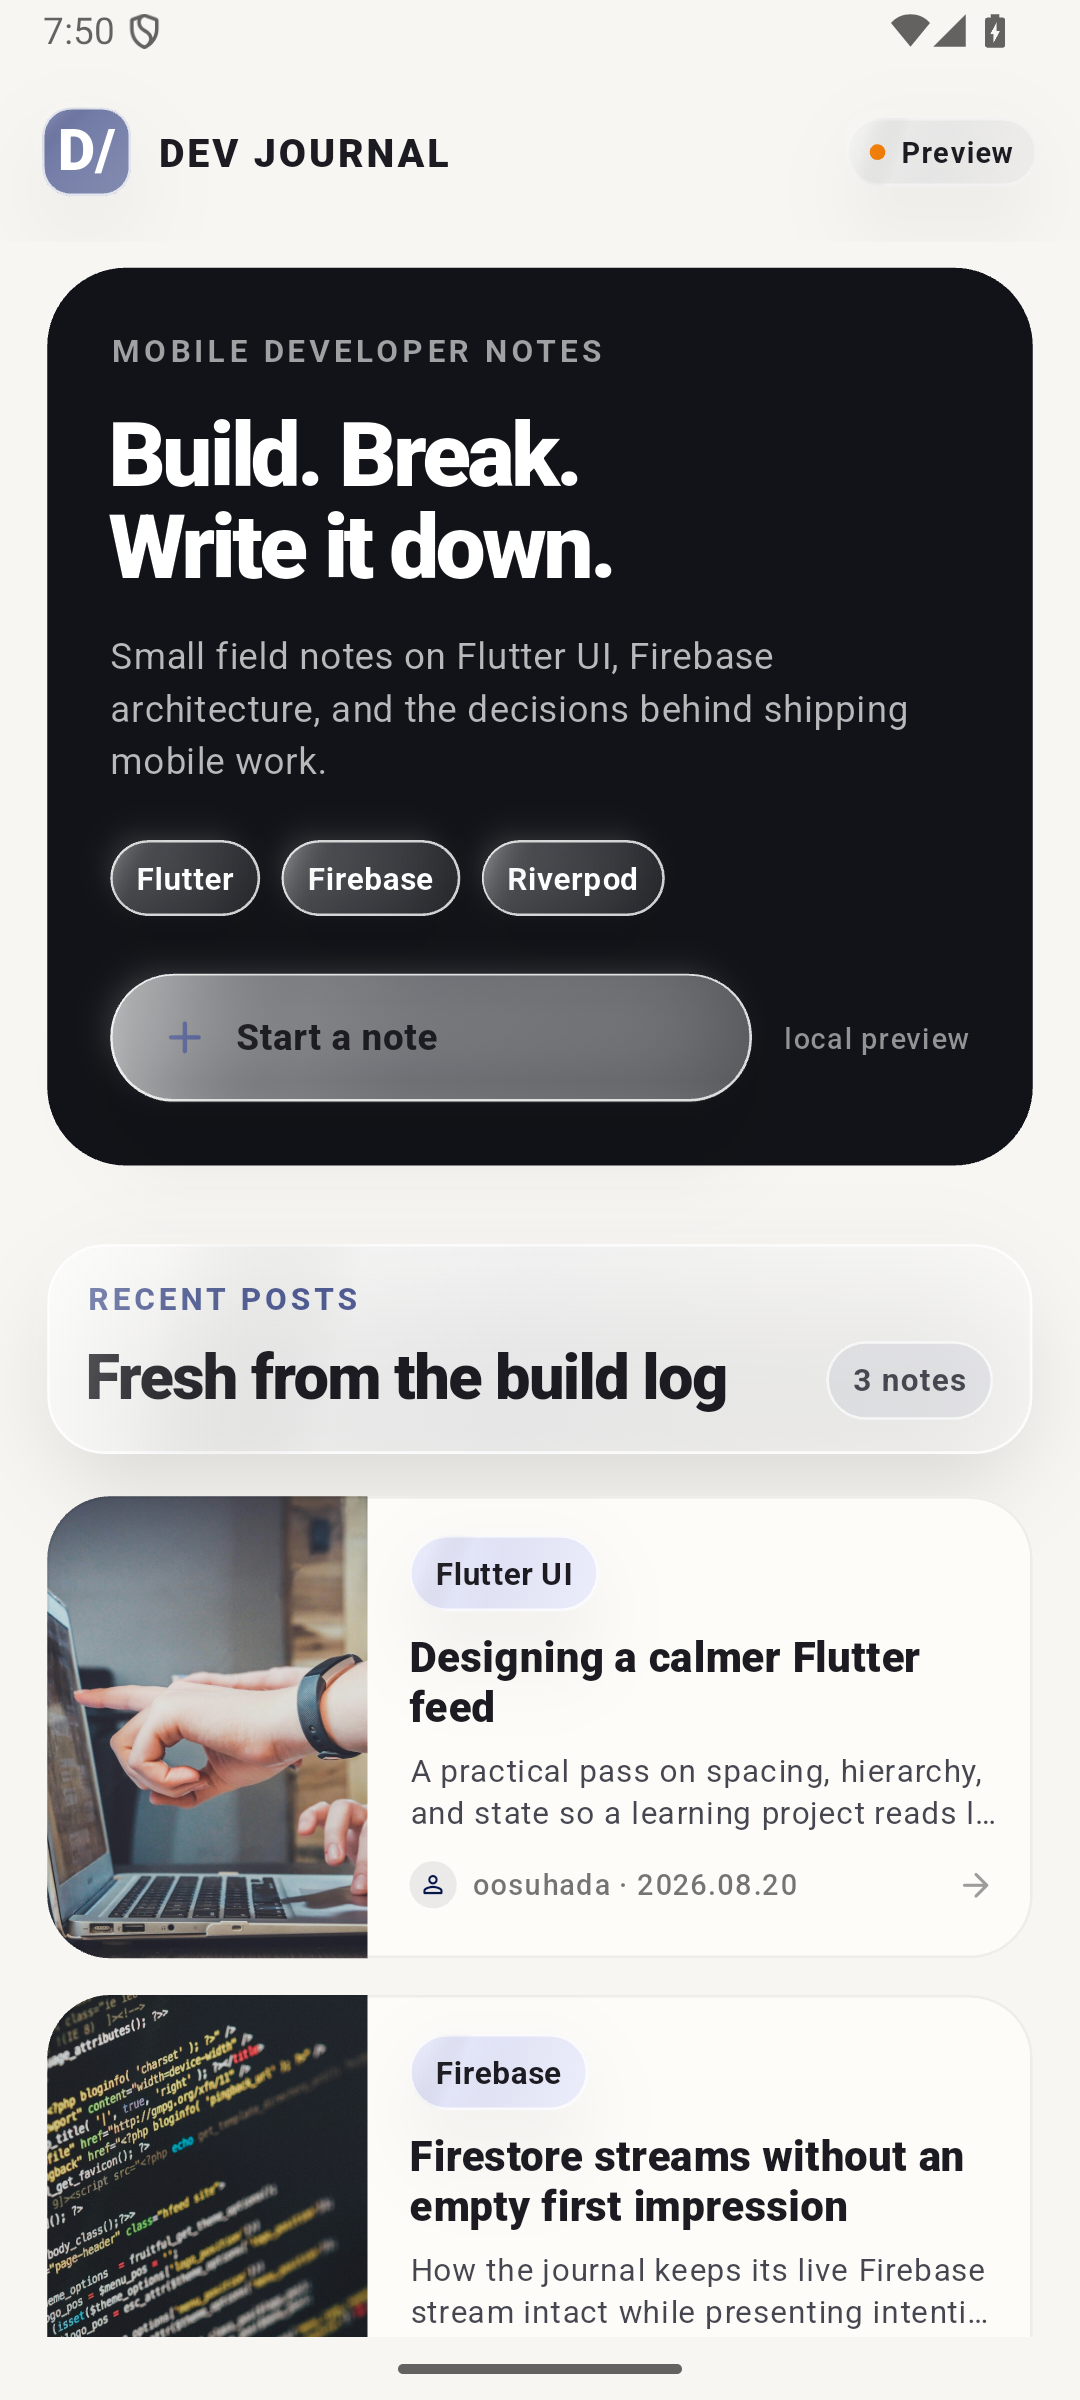
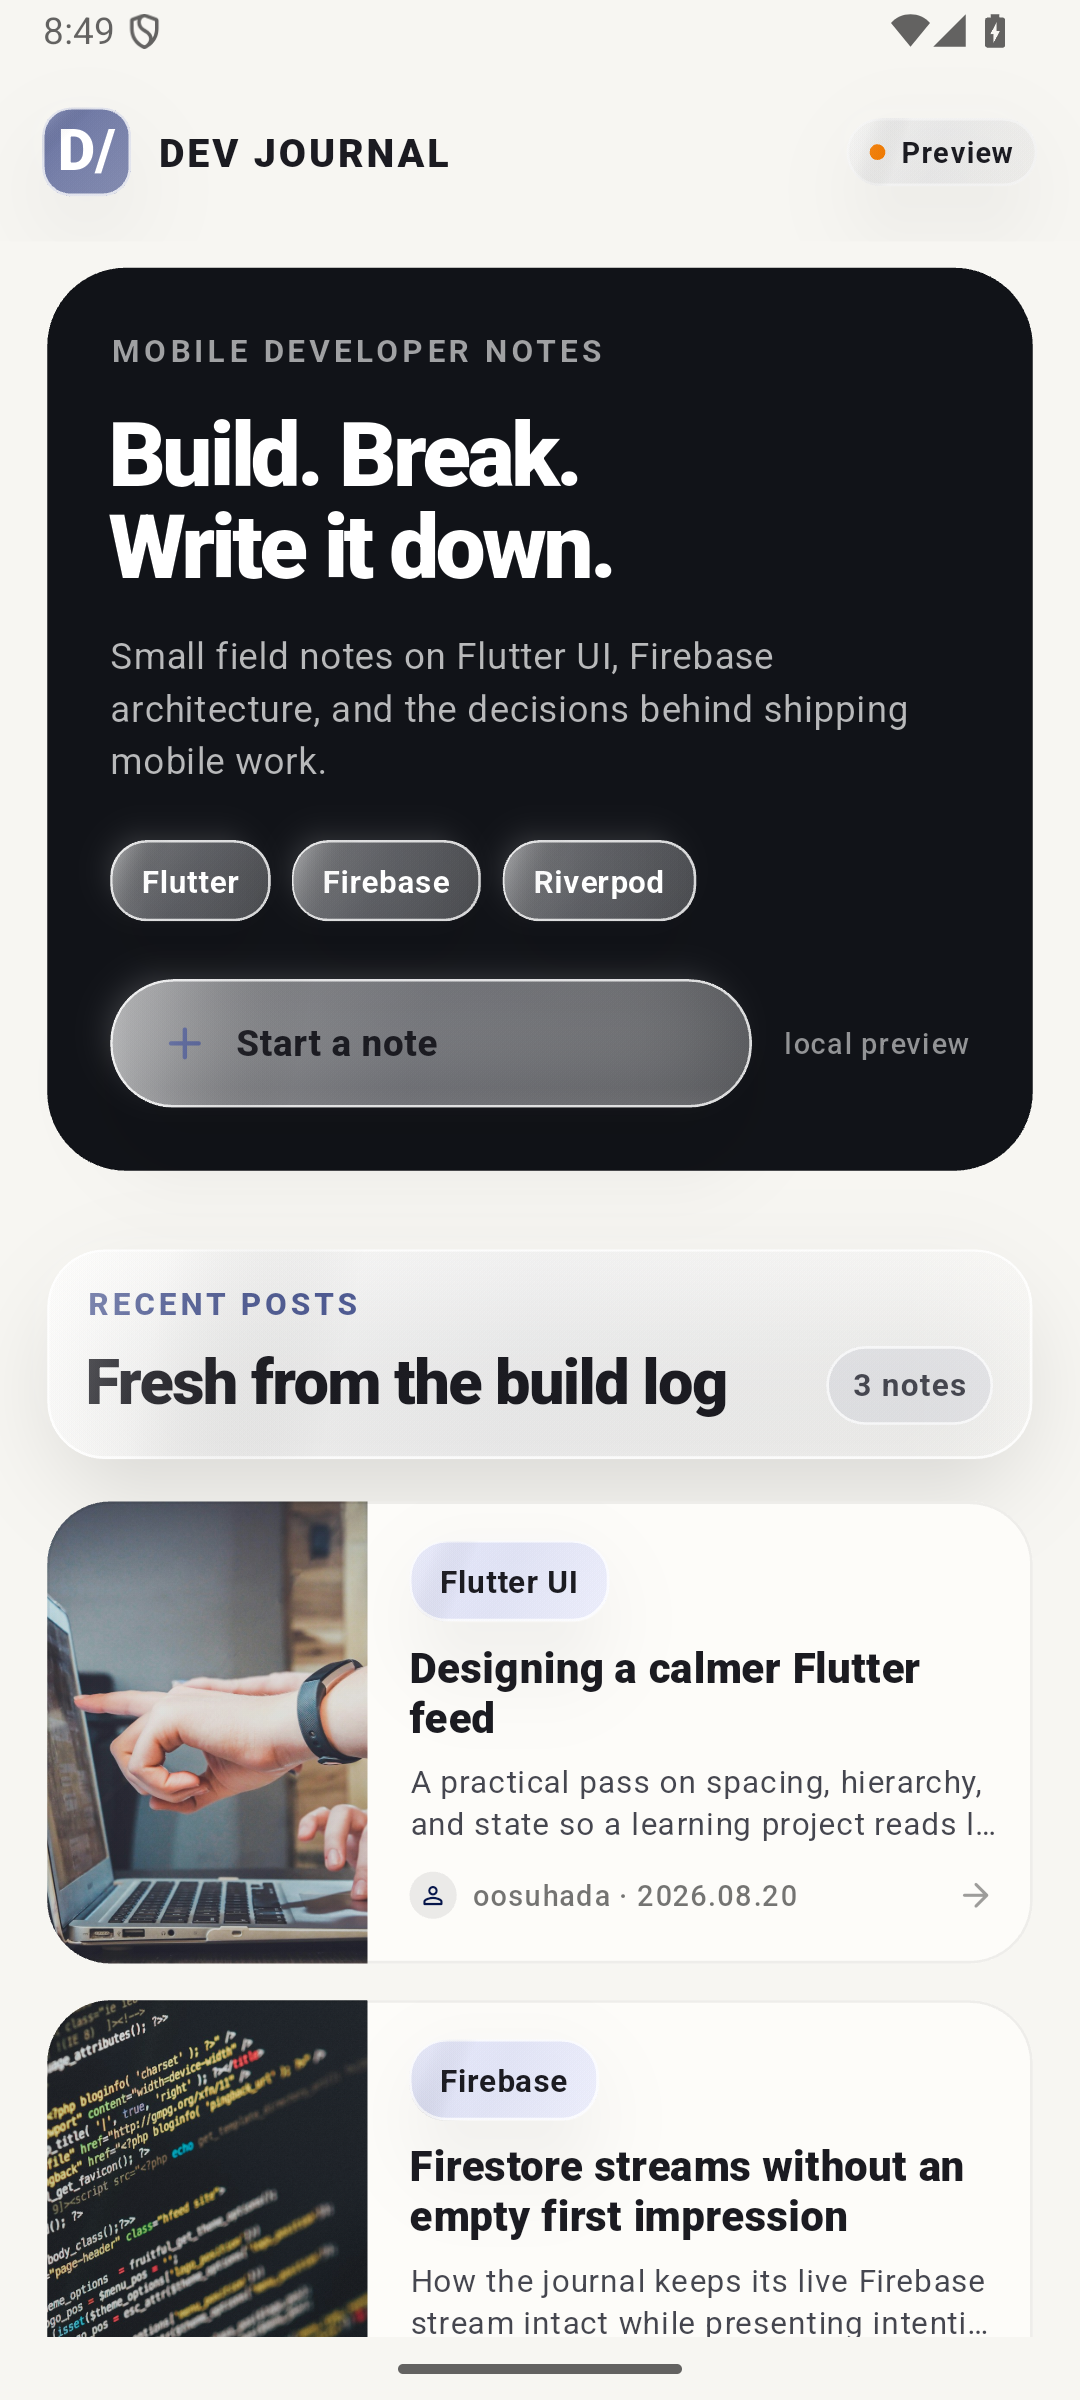
Make feed tags visibly liquid glass

diff --git a/lib/v2/v2_glass.dart b/lib/v2/v2_glass.dart
@@ -415,9 +415,9 @@ class AppGlassTag extends StatelessWidget {
     return AppGlassSurface(
       tint: tint,
       surfaceOpacity: surfaceOpacity,
-      blurSigma: 14,
-      borderRadius: BorderRadius.circular(15),
-      padding: const EdgeInsets.symmetric(horizontal: 10, vertical: 6),
+      blurSigma: 22,
+      borderRadius: BorderRadius.circular(14),
+      padding: const EdgeInsets.symmetric(horizontal: 12, vertical: 7),
       child: Text(
         label,
         style: TextStyle(

diff --git a/lib/ui/pages/home/home_page.dart b/lib/ui/pages/home/home_page.dart
@@ -226,7 +226,7 @@ class _DarkTag extends StatelessWidget {
       label: label,
       tint: Colors.white,
       foregroundColor: Colors.white,
-      surfaceOpacity: .14,
+      surfaceOpacity: .30,
     );
   }
 }
